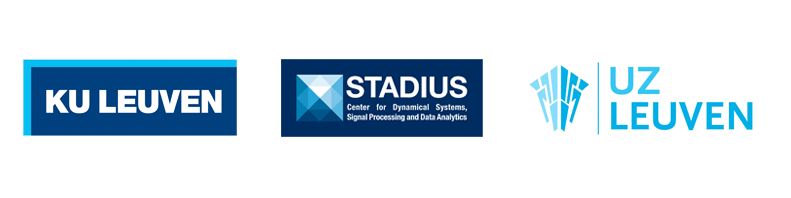
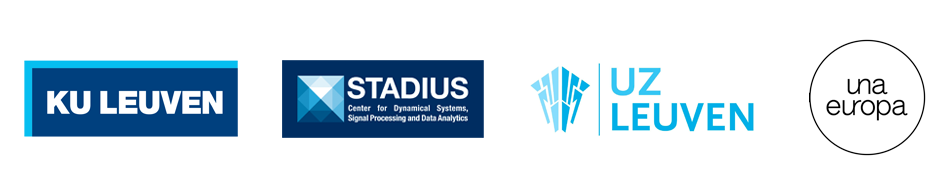
updated home registration

diff --git a/_includes/register_form.html b/_includes/register_form.html
@@ -46,5 +46,5 @@
     </div>
     <hr>
     <button type="submit" class="btn btn-primary">Submit</button>
-    <input type="hidden" name="_gotcha" style="display:none !important">
+    <input type="hidden" name="redirect" value="https://biomedepi.github.io/seizure_detection_challenge/regulations#">
   </form>

diff --git a/pages/home.md b/pages/home.md
@@ -1,7 +1,7 @@
 ---
 layout: home
 title: BIOMED Seizure Detection Challenge
-description: 
+description: [Una Europa](https://www.una-europa.eu/)
 background: /assets/theme/images/header.png
 permalink: /
 ---
@@ -25,7 +25,12 @@ More information about the [dataset]({{ '/dataset/' | relative_url }}) and [regu
 
 ## **<span style="color:#2B547E">Important Dates</span>**
 
-- To be announced.
+- **Challenge duration:** February - May 2025
+- **Registration deadline:** 20 January 2025
+- **Joint kick-off session:** 3 February 2025
+- **Joint workshop:** 24-24 April 2025
+- **End of challenge:** 16 May 2025
+
 
 
 

diff --git a/pages/registration_successful.md b/pages/registration_successful.md
@@ -1,0 +1,7 @@
+---
+title: Regulations
+background: /assets/theme/images/bckg.png
+permalink: /regulations#/
+---
+
+
